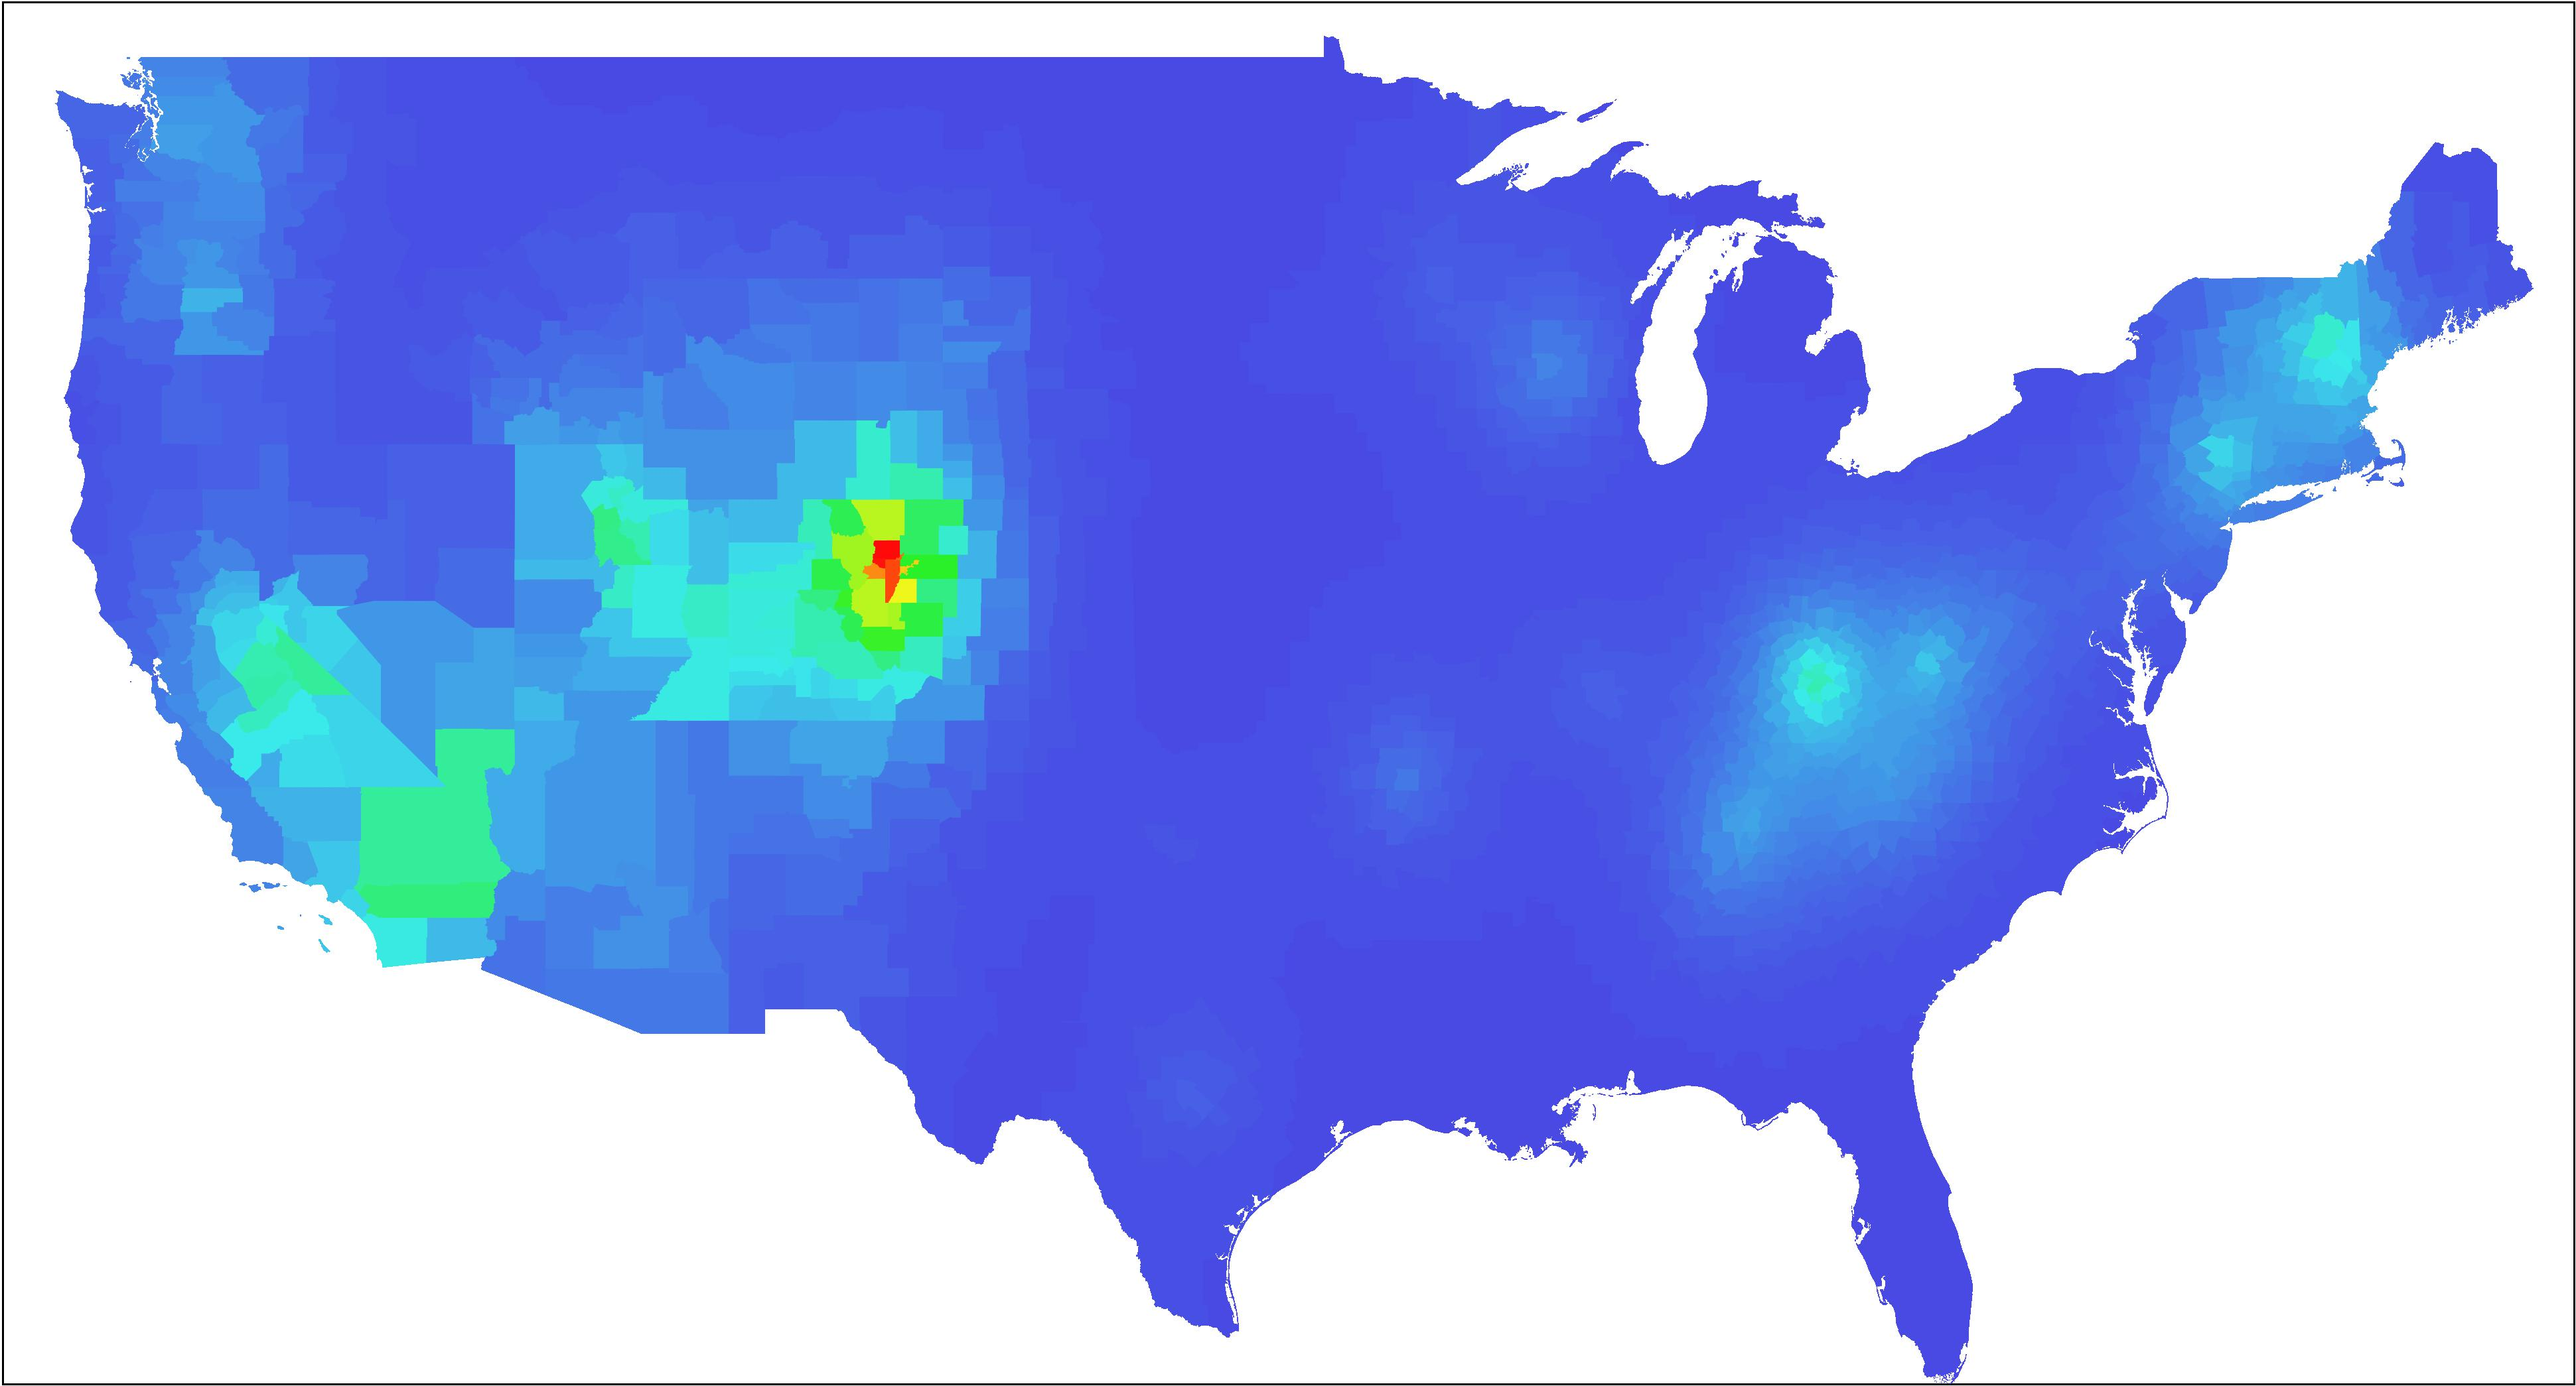
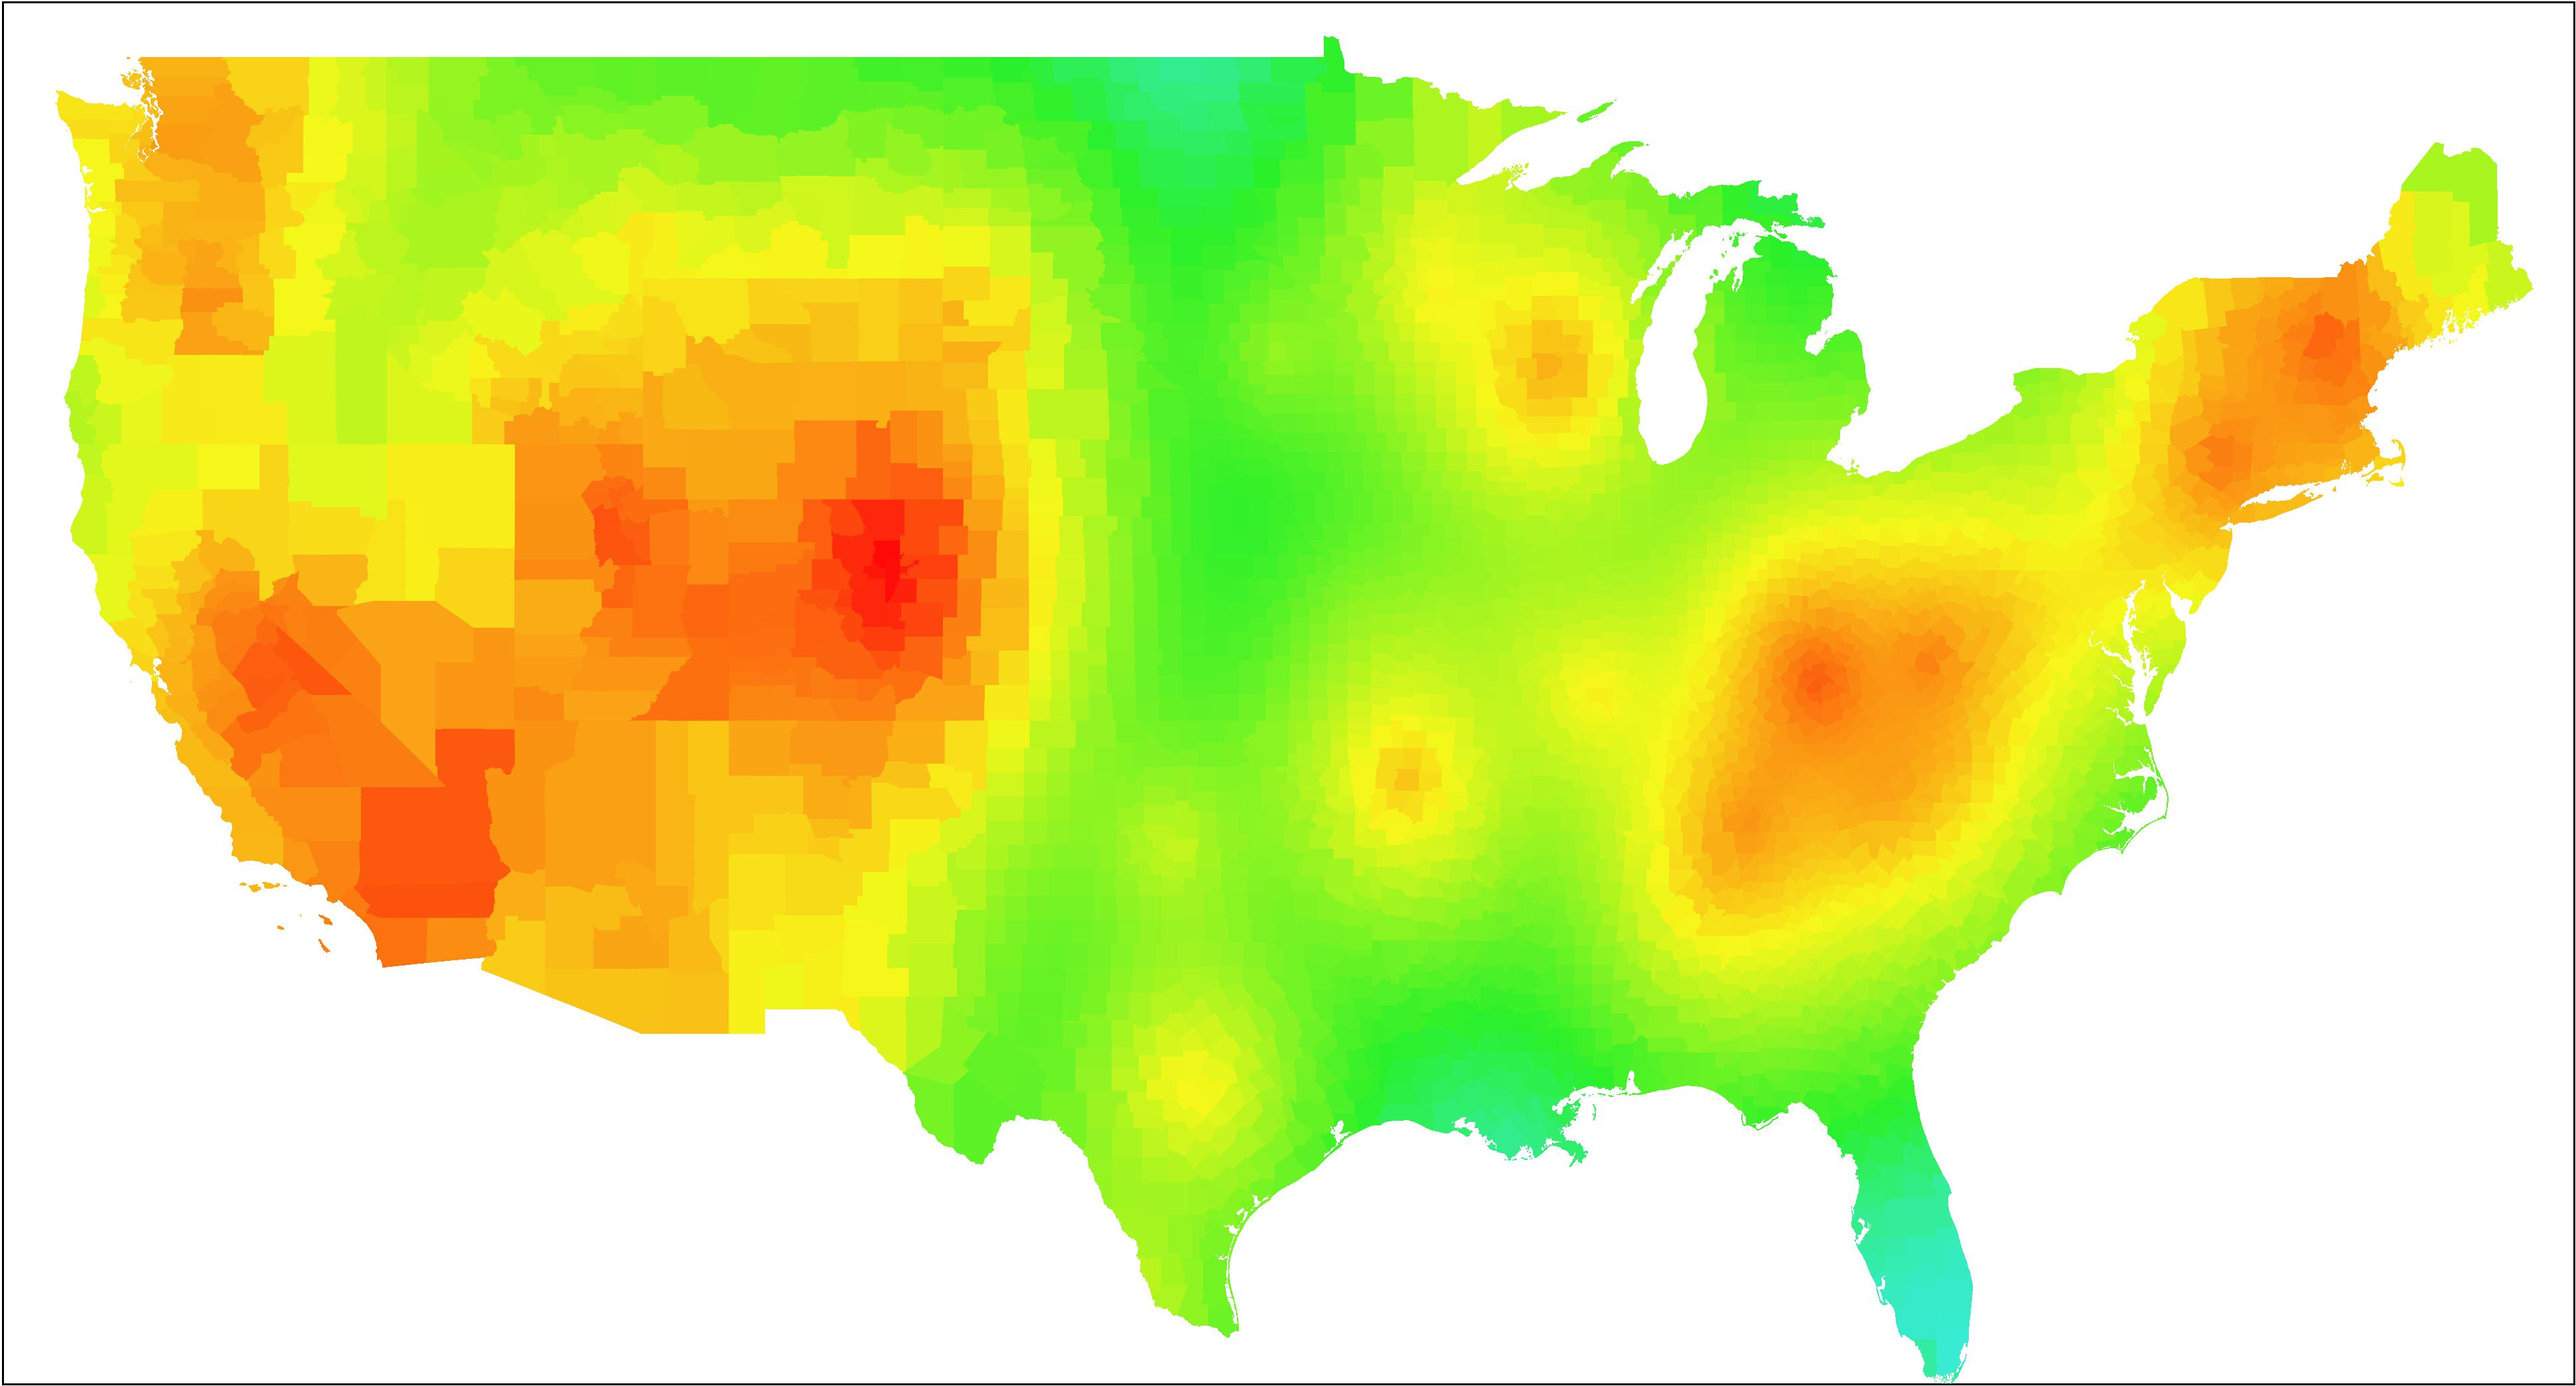
Add stuff

diff --git a/src/scorer.py b/src/scorer.py
@@ -1,5 +1,6 @@
 import json
 import codecs
+import operator
 import numpy as np
 from math import exp
 from time import time
@@ -56,35 +57,35 @@ def calculate_score(lat, long, climbing_data):
     ratingScore = np.multiply(climbing_data[:,AVG_RATING], climbing_data[:,NUM_RATINGS])
     score = np.multiply(ratingScore, distanceScore)
 
-    return np.sum(score)
+    return np.log(np.sum(score) + 1)
 
 def normalize_scores(scores):
+    min_score = 99999999
     max_score = 0
     for county, score in scores.items():
         max_score = max(score, max_score)
+        min_score = min(score, min_score)
 
     normalized_scores = {}
     for county, score in scores.items():
-        normalized_score = int(round(score / max_score * 100))
+        normalized_score = int(round((score - min_score) / (max_score - min_score) * 1000))
+
+        normalized_score = int(round(score / max_score * 1000))
         normalized_scores[county] = normalized_score
 
     return normalized_scores
 
 if __name__ == '__main__':
 
+    start = time()
+
     climbing_data = load_climbing_data()
     county_data = load_county_data()
 
-    start = time()
-
     scores = {}
-    count = 0
     for county in county_data:
-        count += 1
         score = calculate_score(county['lat'], county['long'], climbing_data)
         scores[county['id']] = score
-        if count == 30:
-            break
 
     normalized_scores = normalize_scores(scores)
 

diff --git a/src/heatmap.py b/src/heatmap.py
@@ -34,7 +34,7 @@ if __name__ == '__main__':
     shapes = shapefile.shapes()
     records = shapefile.records()
 
-    gradient = list(Color(LOW_COLOR).range_to(Color(HIGH_COLOR), 101))
+    gradient = list(Color(LOW_COLOR).range_to(Color(HIGH_COLOR), 1001))
     axes = plt.figure(figsize=IMG_DIMENSIONS).gca()
     axes.set_facecolor(BACKGROUND_COLOR)
     axes.xaxis.set_visible(False)
@@ -60,3 +60,6 @@ if __name__ == '__main__':
 
     duration = round(time() - start, 2)
     print('Saved heatmap to', JPG_FILE, 'in', duration, 'seconds.')
+
+    Image.open(JPG_FILE).show()
+    
